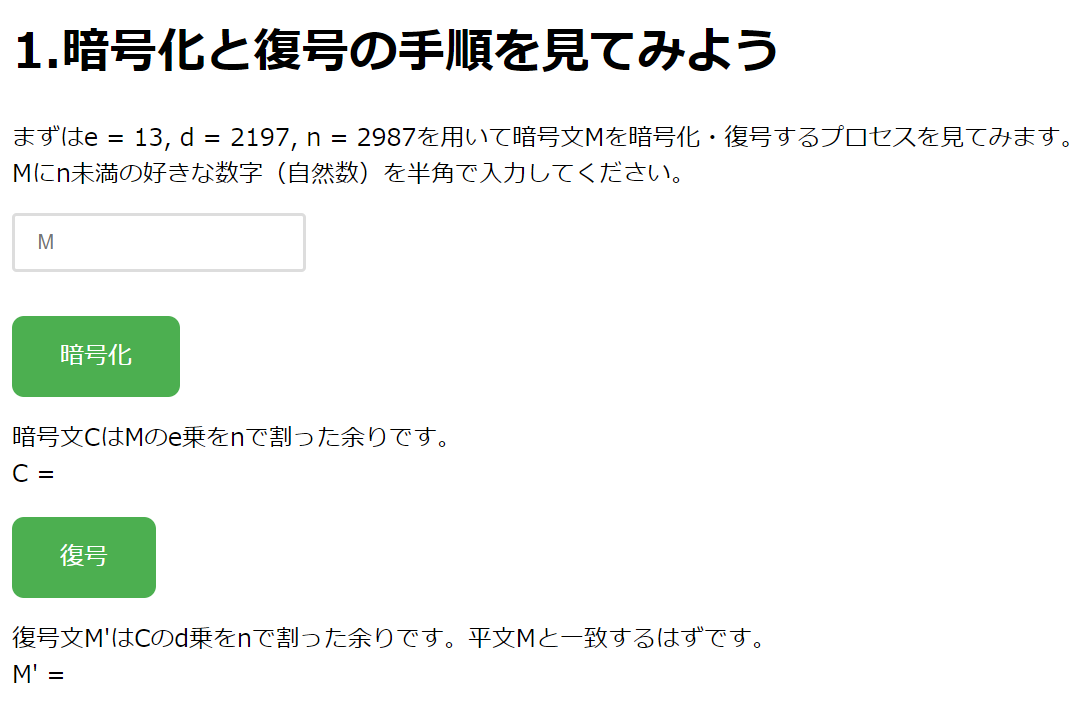
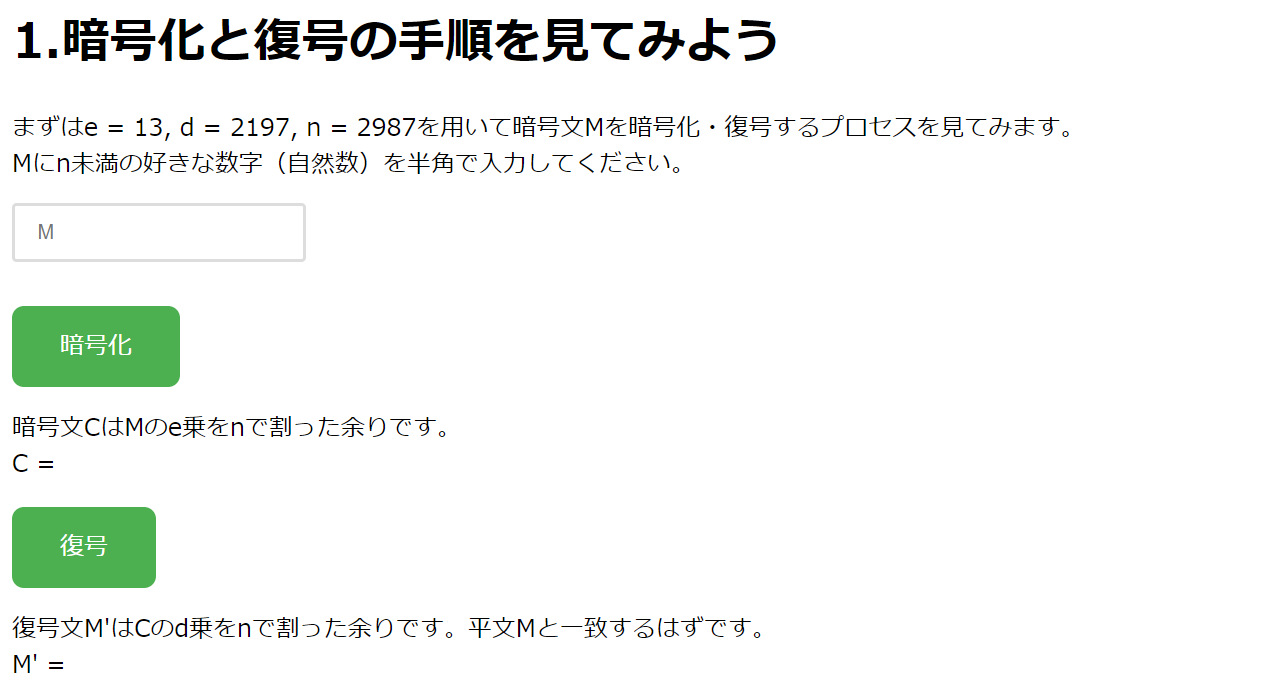
add frames of images to prevent misunderstanding

diff --git a/crypto/rsa/index.md b/crypto/rsa/index.md
@@ -132,31 +132,36 @@ $$
 [RSA暗号](https://kf74-rsa.pages.dev/)にアクセスしてください。次のような画面が表示されます。
 <p><a href="https://kf74-rsa.pages.dev/" target="_blank" rel="noreferrer" className="button button--primary button--block">RSA暗号を体験できるサイトを開く</a></p>
 
-![](./rsa1.png)
+| ![](./rsa1.png) |
+| --- |
 
 まずは指示に従って、$M$ に $n$ 未満の好きな数を入れましょう。その後、「暗号化」のボタンをクリックすると、$C$ に $M$ の $e$ 乗を $n$ で割った余りが表示されます。続いて、「復号」のボタンをクリックすると、$M'$ に $C$ の $d$ 乗を $n$ で割った余りが表示されます。  
 すると、$M$ と $M'$ が一致することがわかります。今は $M$ はただの数なのであまり実感は沸かないかもしれませんが、$M$を暗号化したもの($C$)を復号するとちゃんと $M$ に戻っていることがわかります。  
 次に2番に進みます。
 
-![](./rsa2-1.png)
+| ![](./rsa2-1.png) |
+| --- |
 
 先ほどはRSA暗号の鍵が与えられていましたが、ここでは鍵を作ってみましょう。$a$ と $b$ に、256～9999の好きな数を入力し、「$p, q$ を計算」のボタンをクリックしてください。すると、$p$ と $q$ が表示されます。
 このとき表示される $p$ は $a$ 以上の素数のうち最小のものです。同様に、$q$ は $b$ 以上の素数のうち最小のものです。ただし、$p$ と $q$ は同じ数になってしまった場合は、自動的に再計算されて異なる数になります。なお、$p$ と $q$ が文字コードの値よりも大きくなるようにするために、$a$ と $b$ は256以上の数に限定しています。
 続いて、「$n, \phi(n)$ を計算」 のボタンをクリックすると、先ほどの $p$ と $q$ から $n$ と $\phi(n)$ が計算されます。
 
-![](./rsa2-2.png)
+| ![](./rsa2-2.png) |
+| --- |
 
 次に、「$e$ を計算」のボタンをクリックすると、$\phi(n)$ と互いに素な $e$ が計算されます。ここではそのような $e$ のうち最小のものが表示されます。
 最後に、「$d$ を計算」のボタンをクリックすると、$e$ を $\phi(n)$ で割った余りとして $d$ が計算されます。  
 これで、RSA暗号の鍵がすべて揃いました！ それでは3番に進みましょう。
 
-![](./rsa3-1.png)
+| ![](./rsa3-1.png) |
+| --- |
 
 まず、先ほど決めた鍵である $e$、$d$、$n$ を入力し、また暗号化したい文字列を入力します。
 次に、「エンコード」のボタンをクリックすると、文字列がエンコードされて数の列に変換されます。
 そして、「暗号化」のボタンをクリックすると、エンコードされた数の列が暗号化されます。
 
-![](./rsa3-2.png)
+| ![](./rsa3-2.png) |
+| --- |
 
 次に、「復号」のボタンをクリックすると、暗号化された数の列が復号されます。
 最後に、「デコード」のボタンをクリックすると、復号された数の列が文字列に変換されます。
